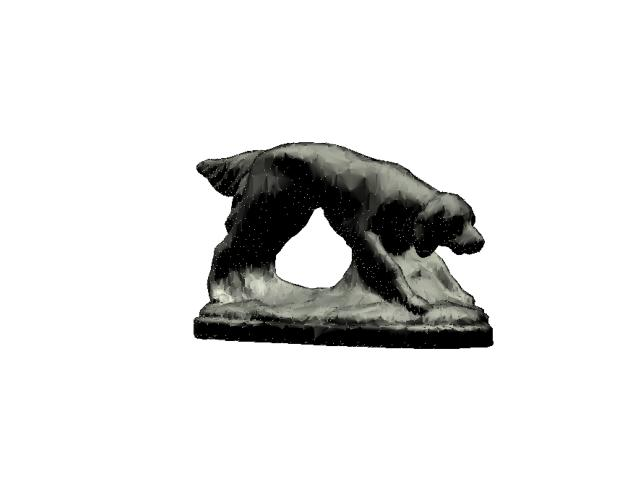
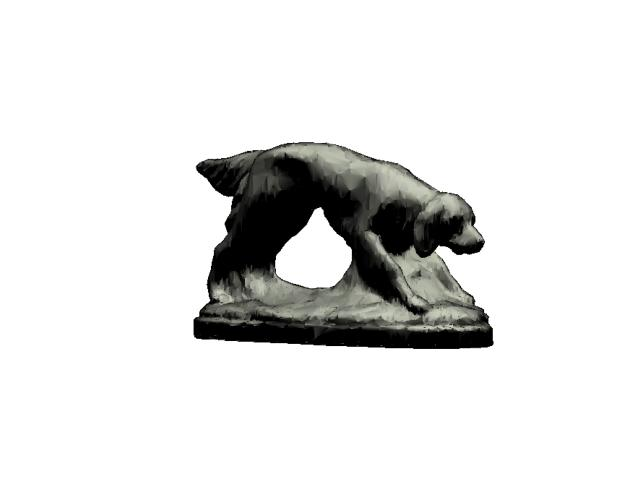
finalize project

diff --git a/demos/demo_lighting.py b/demos/demo_lighting.py
@@ -25,57 +25,57 @@ H = np.array(data['H'])
 bg_color = np.array(data['bg_color'])
 focal = 70
 
-# img = render_object('Ambient', 'Gouraud', focal, cam_eye, cam_lookat, cam_up, bg_color, M, N, H, W, verts,
-#                     vertex_colors,
-#                     face_indices, ka, kd, ks, n, light_positions, light_intensities, Ia)
-# plt.imshow(img)
-# plt.axis('off')
-# plt.savefig('../results/Assignment 3 - View/Dog_Gouraud_Ambient.jpeg')
-# plt.show()
-#
-# img = render_object('Diffuse', 'Gouraud', focal, cam_eye, cam_lookat, cam_up, bg_color, M, N, H, W, verts,
-#                     vertex_colors,
-#                     face_indices, ka, kd, ks, n, light_positions, light_intensities, Ia)
-# plt.imshow(img)
-# plt.axis('off')
-# plt.savefig('../results/Assignment 3 - View/Dog_Gouraud_Diffuse.jpeg')
-# plt.show()
-#
-# img = render_object('Specular', 'Gouraud', focal, cam_eye, cam_lookat, cam_up, bg_color, M, N, H, W, verts,
-#                     vertex_colors,
-#                     face_indices, ka, kd, ks, n, light_positions, light_intensities, Ia)
-# plt.imshow(img)
-# plt.axis('off')
-# plt.savefig('../results/Assignment 3 - View/Dog_Gouraud_Specular.jpeg')
-# plt.show()
-#
-# img = render_object('All', 'Gouraud', focal, cam_eye, cam_lookat, cam_up, bg_color, M, N, H, W, verts, vertex_colors,
-#                     face_indices, ka, kd, ks, n, light_positions, light_intensities, Ia)
-# plt.imshow(img)
-# plt.axis('off')
-# plt.savefig('../results/Assignment 3 - View/Dog_Gouraud_All.jpeg')
-# plt.show()
-#
-# img = render_object('Ambient', 'Phong', focal, cam_eye, cam_lookat, cam_up, bg_color, M, N, H, W, verts, vertex_colors,
-#                     face_indices, ka, kd, ks, n, light_positions, light_intensities, Ia)
-# plt.imshow(img)
-# plt.axis('off')
-# plt.savefig('../results/Assignment 3 - View/Dog_Phong_Ambient.jpeg')
-# plt.show()
-#
-# img = render_object('Diffuse', 'Phong', focal, cam_eye, cam_lookat, cam_up, bg_color, M, N, H, W, verts, vertex_colors,
-#                     face_indices, ka, kd, ks, n, light_positions, light_intensities, Ia)
-# plt.imshow(img)
-# plt.axis('off')
-# plt.savefig('../results/Assignment 3 - View/Dog_Phong_Diffuse.jpeg')
-# plt.show()
-#
-# img = render_object('Specular', 'Phong', focal, cam_eye, cam_lookat, cam_up, bg_color, M, N, H, W, verts, vertex_colors,
-#                     face_indices, ka, kd, ks, n, light_positions, light_intensities, Ia)
-# plt.imshow(img)
-# plt.axis('off')
-# plt.savefig('../results/Assignment 3 - View/Dog_Phong_Specular.jpeg')
-# plt.show()
+img = render_object('Ambient', 'Gouraud', focal, cam_eye, cam_lookat, cam_up, bg_color, M, N, H, W, verts,
+                    vertex_colors,
+                    face_indices, ka, kd, ks, n, light_positions, light_intensities, Ia)
+plt.imshow(img)
+plt.axis('off')
+plt.savefig('../results/Assignment 3 - View/Dog_Gouraud_Ambient.jpeg')
+plt.show()
+
+img = render_object('Diffuse', 'Gouraud', focal, cam_eye, cam_lookat, cam_up, bg_color, M, N, H, W, verts,
+                    vertex_colors,
+                    face_indices, ka, kd, ks, n, light_positions, light_intensities, Ia)
+plt.imshow(img)
+plt.axis('off')
+plt.savefig('../results/Assignment 3 - View/Dog_Gouraud_Diffuse.jpeg')
+plt.show()
+
+img = render_object('Specular', 'Gouraud', focal, cam_eye, cam_lookat, cam_up, bg_color, M, N, H, W, verts,
+                    vertex_colors,
+                    face_indices, ka, kd, ks, n, light_positions, light_intensities, Ia)
+plt.imshow(img)
+plt.axis('off')
+plt.savefig('../results/Assignment 3 - View/Dog_Gouraud_Specular.jpeg')
+plt.show()
+
+img = render_object('All', 'Gouraud', focal, cam_eye, cam_lookat, cam_up, bg_color, M, N, H, W, verts, vertex_colors,
+                    face_indices, ka, kd, ks, n, light_positions, light_intensities, Ia)
+plt.imshow(img)
+plt.axis('off')
+plt.savefig('../results/Assignment 3 - View/Dog_Gouraud_All.jpeg')
+plt.show()
+
+img = render_object('Ambient', 'Phong', focal, cam_eye, cam_lookat, cam_up, bg_color, M, N, H, W, verts, vertex_colors,
+                    face_indices, ka, kd, ks, n, light_positions, light_intensities, Ia)
+plt.imshow(img)
+plt.axis('off')
+plt.savefig('../results/Assignment 3 - View/Dog_Phong_Ambient.jpeg')
+plt.show()
+
+img = render_object('Diffuse', 'Phong', focal, cam_eye, cam_lookat, cam_up, bg_color, M, N, H, W, verts, vertex_colors,
+                    face_indices, ka, kd, ks, n, light_positions, light_intensities, Ia)
+plt.imshow(img)
+plt.axis('off')
+plt.savefig('../results/Assignment 3 - View/Dog_Phong_Diffuse.jpeg')
+plt.show()
+
+img = render_object('Specular', 'Phong', focal, cam_eye, cam_lookat, cam_up, bg_color, M, N, H, W, verts, vertex_colors,
+                    face_indices, ka, kd, ks, n, light_positions, light_intensities, Ia)
+plt.imshow(img)
+plt.axis('off')
+plt.savefig('../results/Assignment 3 - View/Dog_Phong_Specular.jpeg')
+plt.show()
 
 img = render_object('All', 'Phong', focal, cam_eye, cam_lookat, cam_up, bg_color, M, N, H, W, verts, vertex_colors,
                     face_indices, ka, kd, ks, n, light_positions, light_intensities, Ia)

diff --git a/rendering/light.py b/rendering/light.py
@@ -58,8 +58,8 @@ def specular_light(P, N, color, cam_pos, ks, n, light_positions, light_intensiti
     """
 
     V = (cam_pos - P) / la.norm((cam_pos - P))
-    L = (P - light_positions) / la.norm(P - light_positions)
-    LN_inner_product = np.dot(-N.T, L.T)
+    L = (light_positions - P) / la.norm(light_positions - P)
+    LN_inner_product = np.dot(N.T, L.T)
     angle = np.dot(2 * N.T * LN_inner_product - L, V) ** n
     I_lambda = light_intensities * ks * angle
     return np.multiply(color, I_lambda).reshape(3,)
